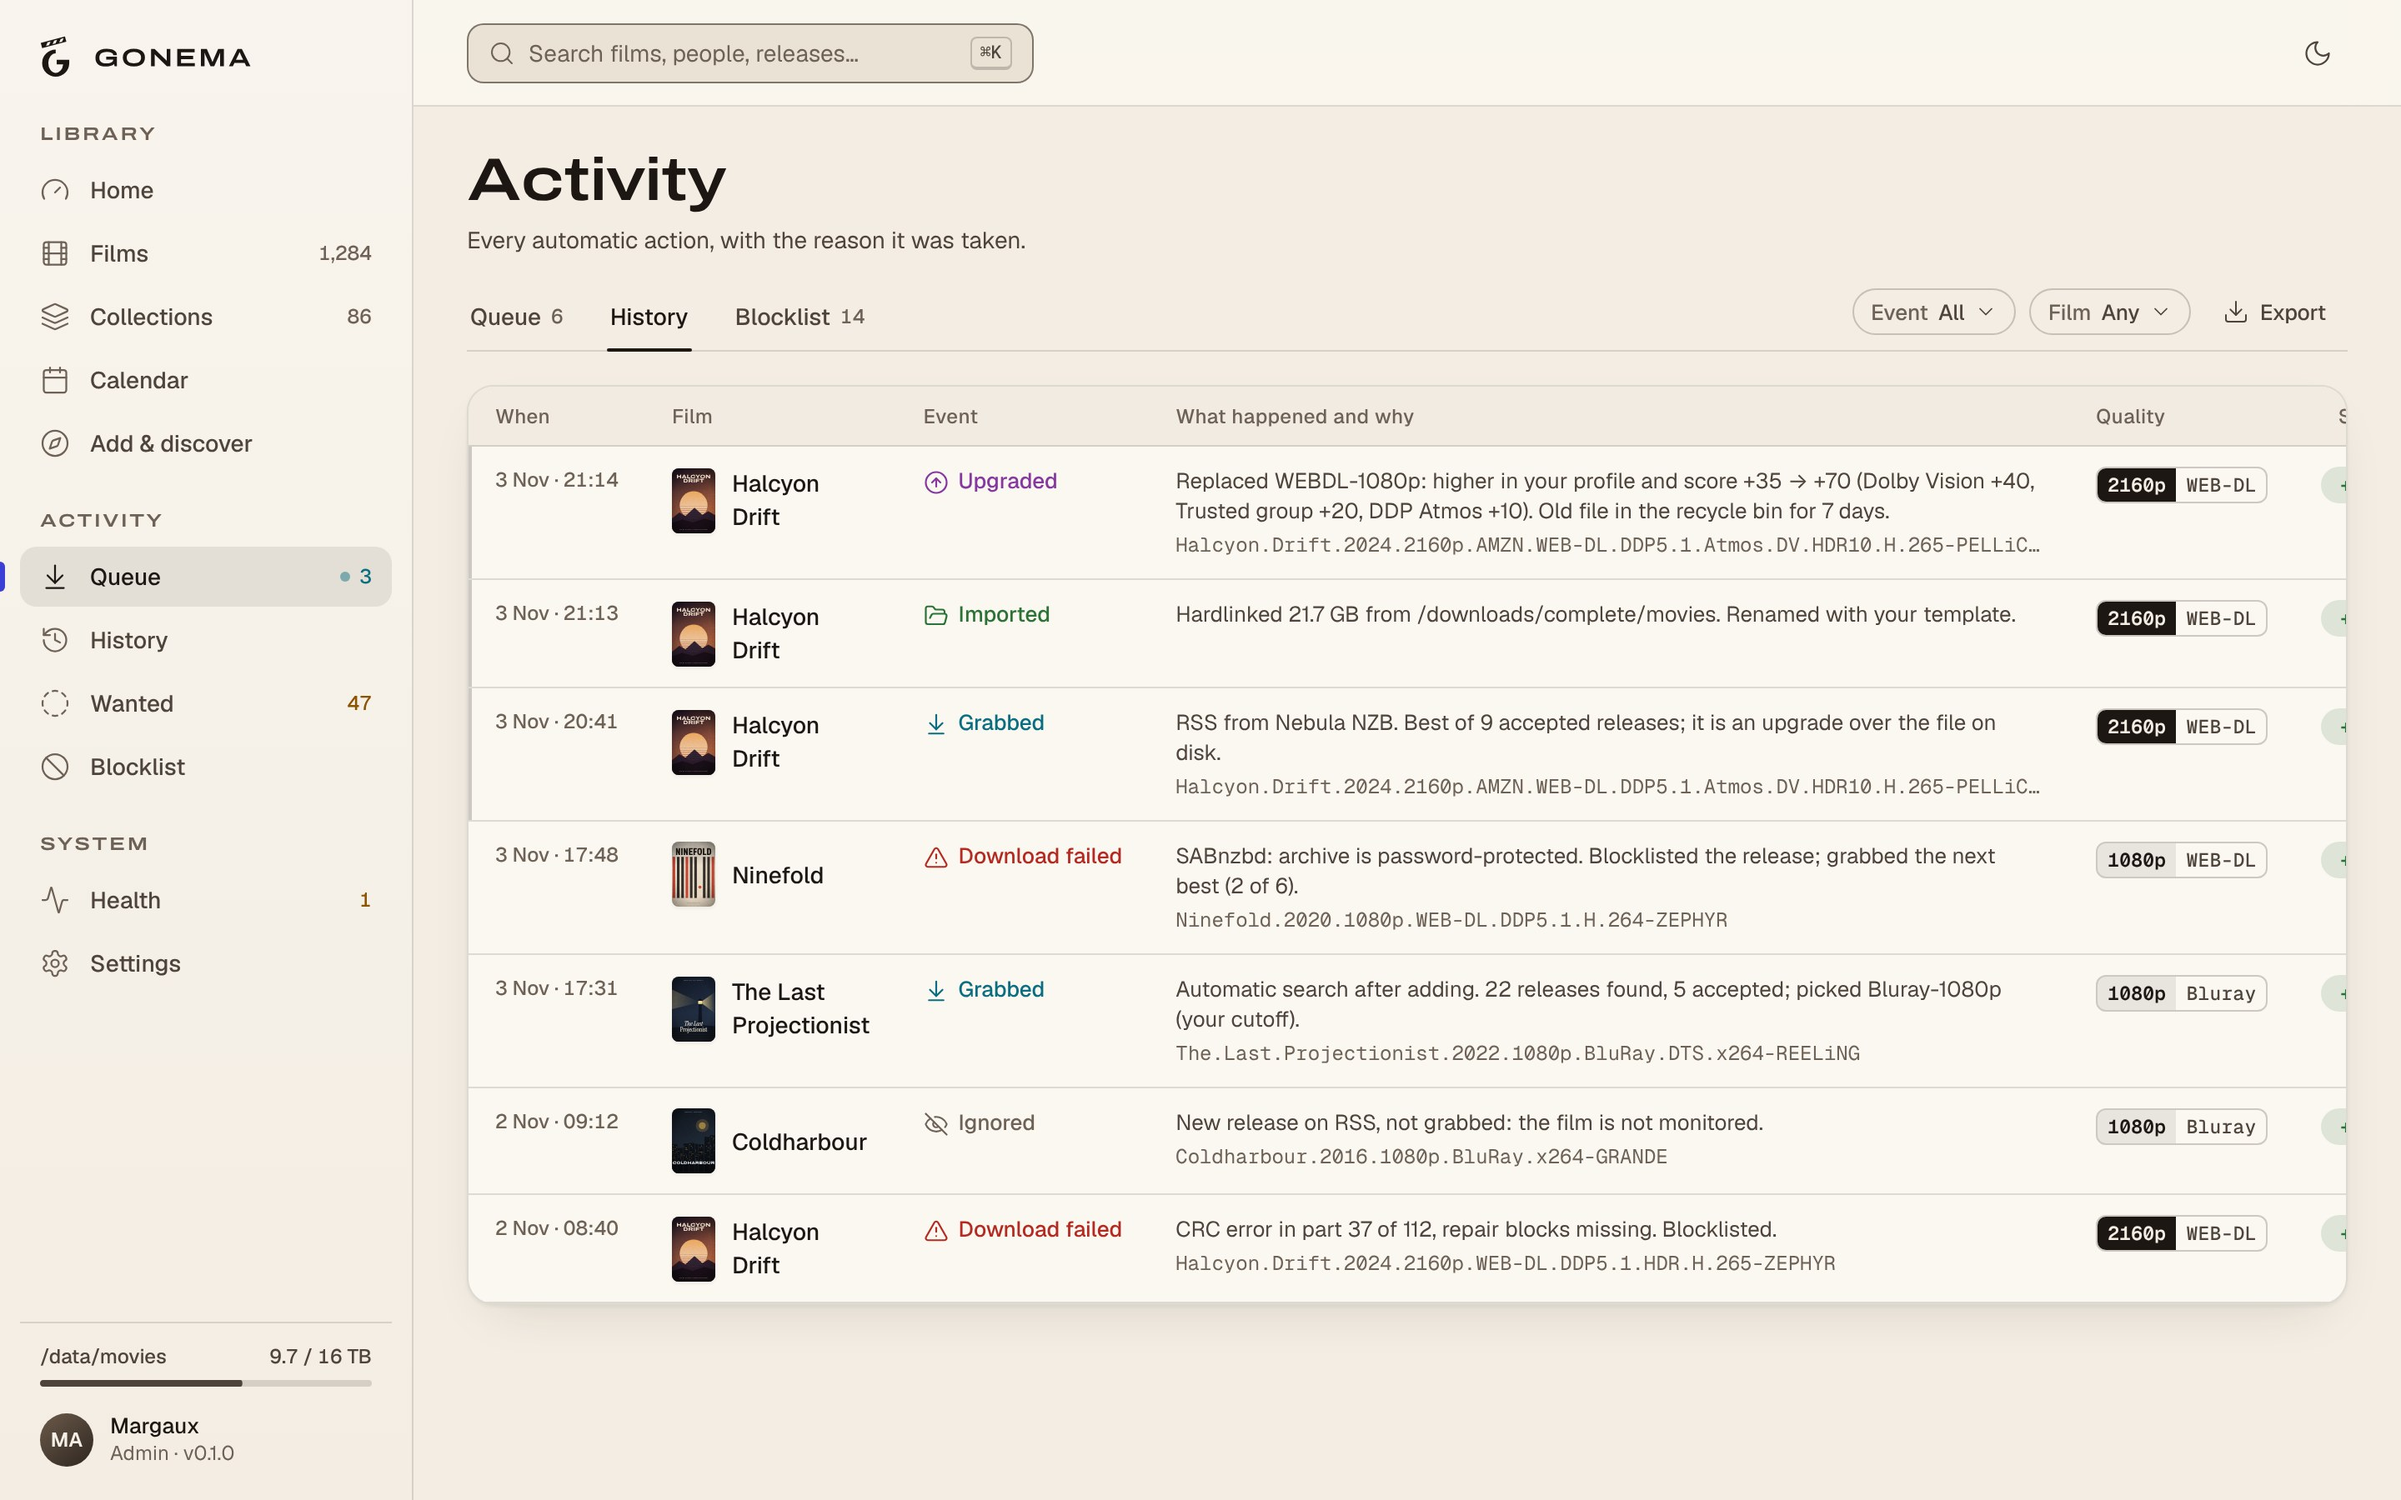
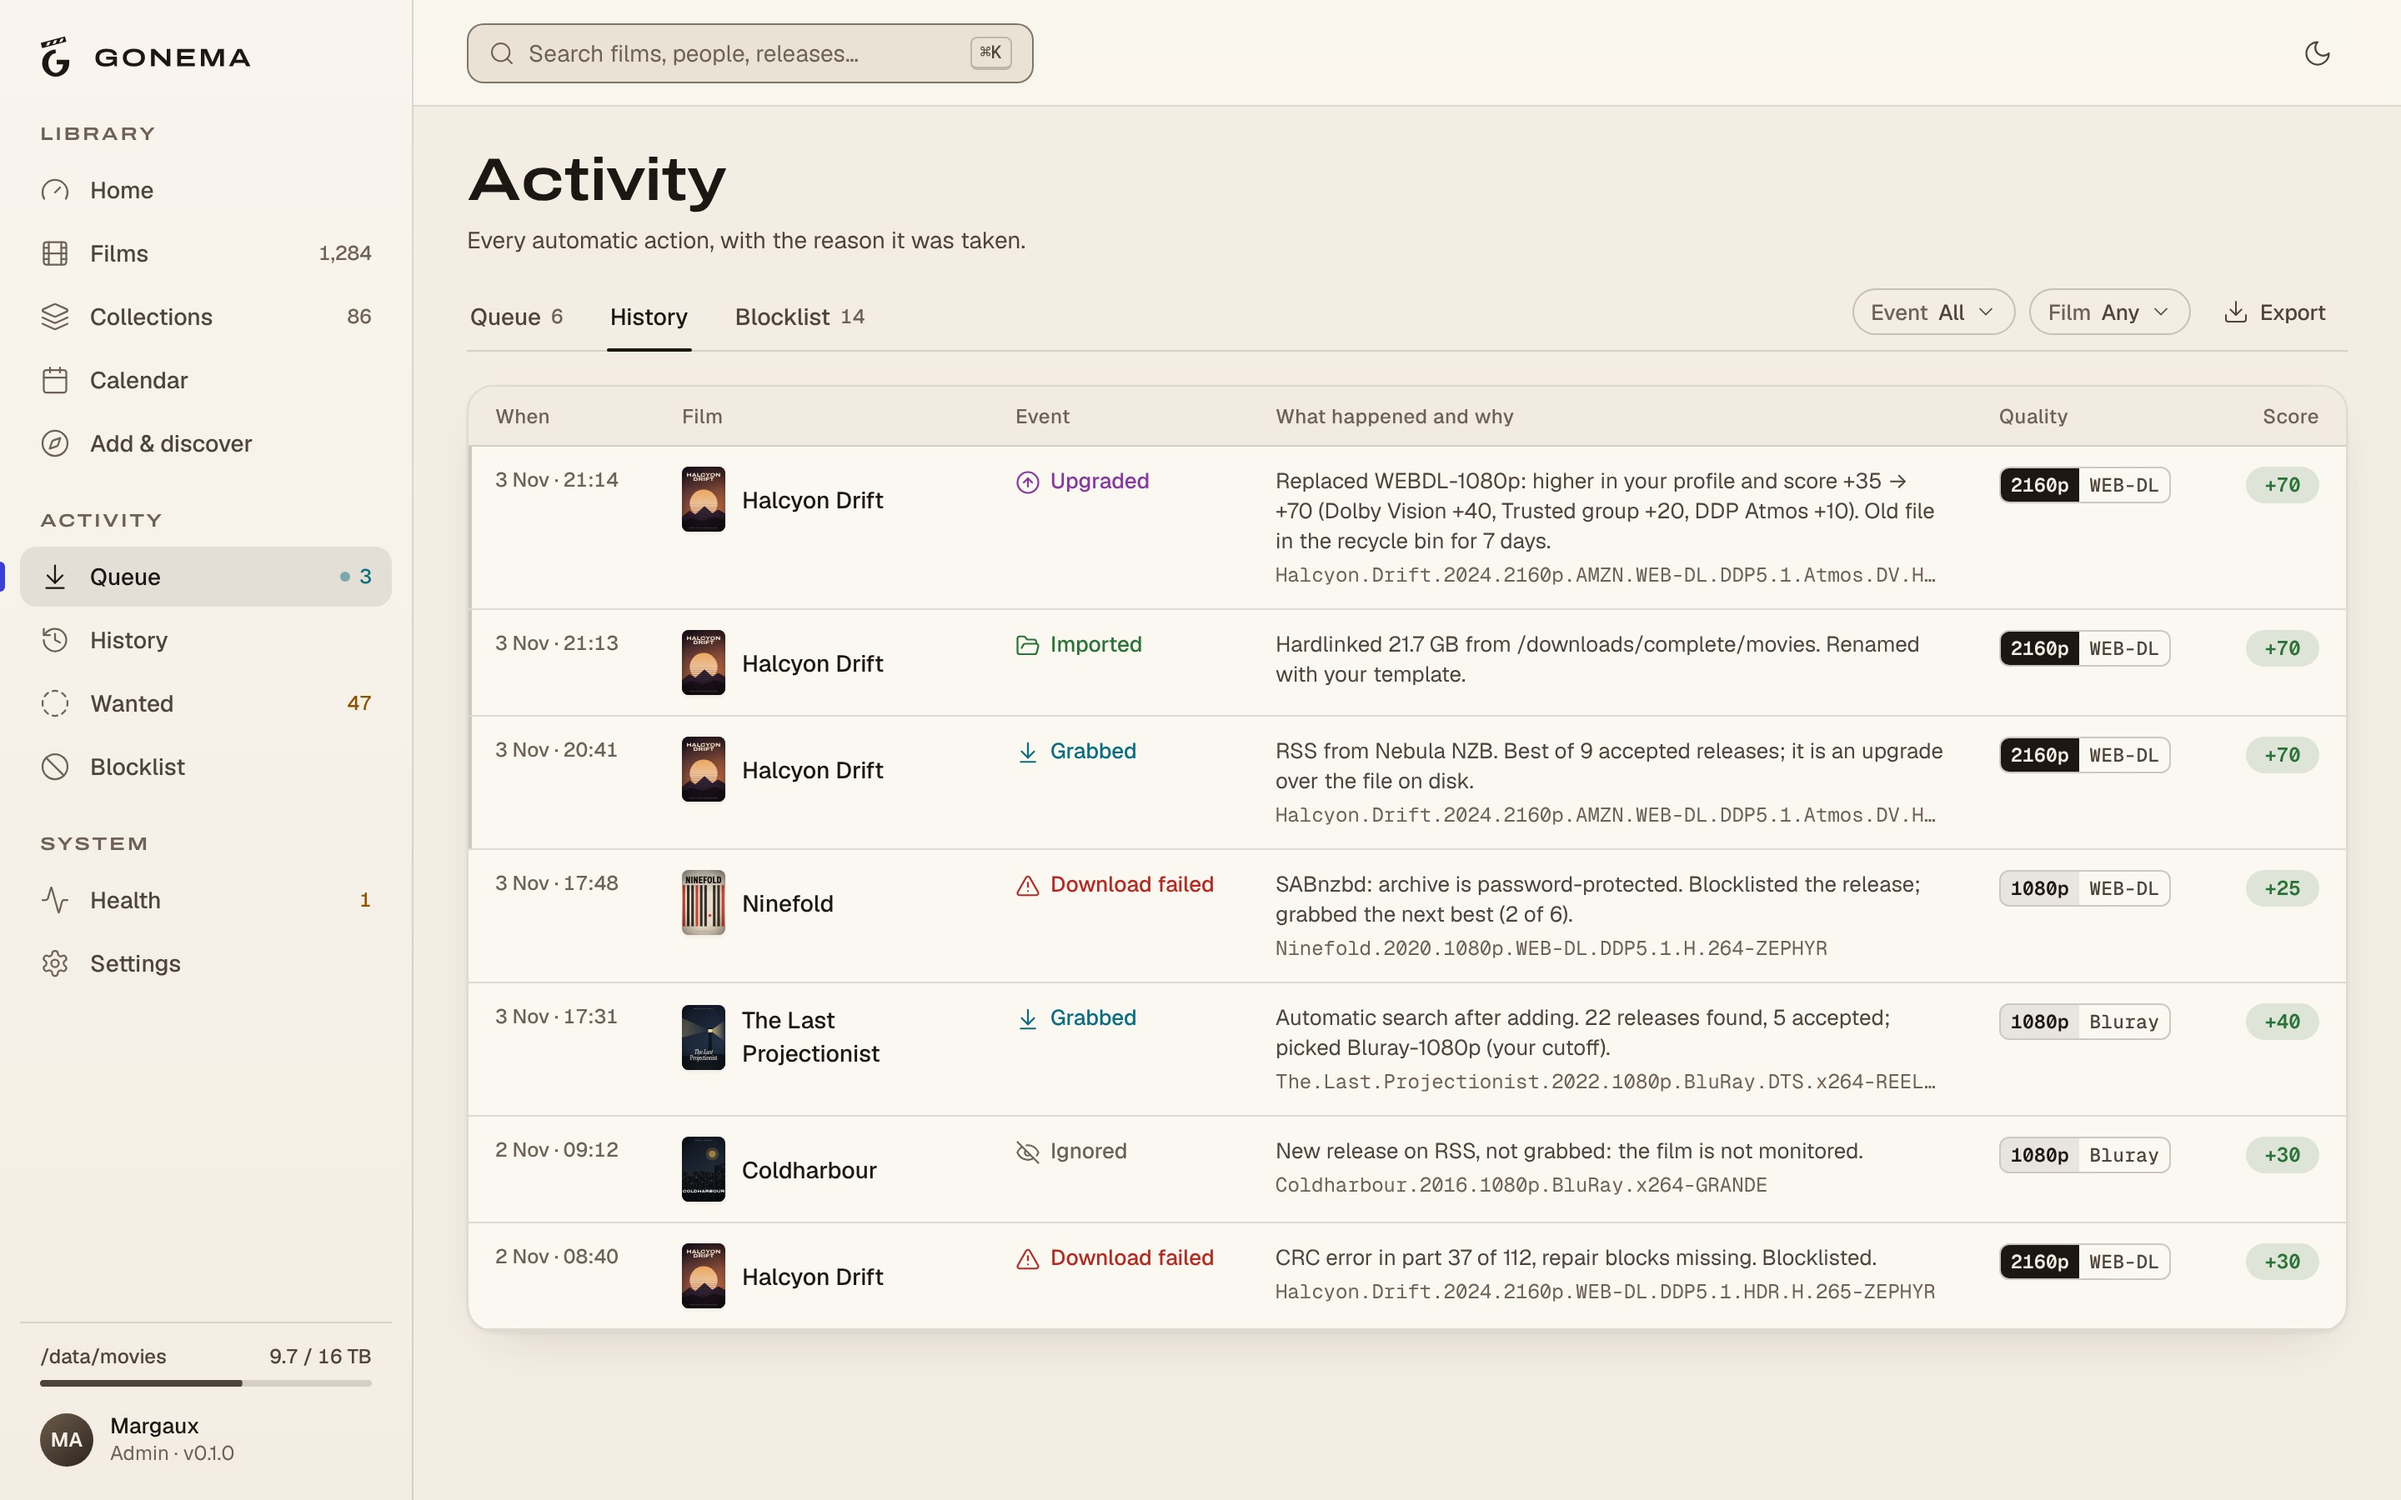
fix(design): rule editor chip overflow and history score column
Claude-Session: https://claude.ai/code/session_01NEYy5QEBfQgbcFuENik1FZ

diff --git a/docs/design/mockups/queue.html b/docs/design/mockups/queue.html
@@ -41,12 +41,13 @@
 
   /* History */
   .hist { border: 1px solid var(--border); border-radius: var(--radius-lg); background: var(--bg-raised); box-shadow: var(--elev-2); overflow: hidden; }
+  .hist .tbl { table-layout: fixed; }
   .hist .tbl td { vertical-align: top; padding-top: 12px; padding-bottom: 12px; height: auto; white-space: normal; }
   .hist .tbl thead th { background: color-mix(in srgb, var(--bg-sunken) 60%, var(--bg-raised)); }
   .hist .film { display: flex; gap: 10px; align-items: center; font-weight: 500; }
   .hist .film .thumb { width: 26px; aspect-ratio: 2/3; border-radius: 4px; overflow: hidden; flex: none; } .hist .film .poster-art svg { width: 100%; height: 100%; }
   .hist .reason { font: var(--type-body-sm); color: var(--text-secondary); }
-  .hist .reason .rel { display: block; font: var(--type-mono-sm); color: var(--text-muted); margin-top: 3px; overflow: hidden; text-overflow: ellipsis; white-space: nowrap; max-width: 520px; }
+  .hist .reason .rel { display: block; font: var(--type-mono-sm); color: var(--text-muted); margin-top: 3px; overflow: hidden; text-overflow: ellipsis; white-space: nowrap; max-width: 100%; }
   .hist tr.chain td:first-child { box-shadow: inset 2px 0 0 var(--border-strong); }
   .hist .tbl td.when { color: var(--text-muted); font: var(--type-caption); font-variant-numeric: tabular-nums; white-space: nowrap; }
   [data-tab="history"] .only-queue, [data-tab="queue"] .only-history { display: none !important; }
@@ -83,7 +84,7 @@
 
       <div class="only-history hist">
         <table class="tbl" aria-label="History">
-          <colgroup><col style="width:120px"><col style="width:220px"><col style="width:150px"><col><col style="width:150px"><col style="width:80px"></colgroup>
+          <colgroup><col style="width:112px"><col style="width:200px"><col style="width:156px"><col><col style="width:148px"><col style="width:76px"></colgroup>
           <thead><tr><th>When</th><th>Film</th><th>Event</th><th>What happened and why</th><th>Quality</th><th class="r">Score</th></tr></thead>
           <tbody id="h"></tbody>
         </table>

diff --git a/docs/design/mockups/settings-quality.html b/docs/design/mockups/settings-quality.html
@@ -60,14 +60,24 @@
   .rules > li.open { display: block; padding: 0; margin: 6px 0; }
   .editor { border: 1px solid color-mix(in srgb, var(--accent) 45%, transparent); border-radius: var(--radius-lg); background: var(--bg-sunken); padding: var(--space-4); display: grid; gap: var(--space-3); }
   .editor .eh { display: flex; align-items: center; gap: var(--space-3); }
-  .cond { display: grid; grid-template-columns: 140px minmax(0, 1fr) 28px; gap: 8px; align-items: center; }
+  .cond { display: grid; grid-template-columns: 156px minmax(0, 1fr) 28px; gap: 8px; align-items: start; }
+  .cond > .icon-btn { margin-top: 2px; }
   .cond .flags { grid-column: 2; display: flex; gap: 16px; }
   .idx .panel-hd h2 { white-space: nowrap; }
   .cond .input { height: 32px; background: var(--bg-raised); }
   .cond .switch { font: 500 12px/1 var(--font-ui); color: var(--text-secondary); gap: 6px; }
   .cond .switch .track { width: 30px; height: 18px; } .cond .switch .track::after { width: 12px; height: 12px; }
   .cond .switch[aria-checked="true"] .track::after { transform: translateX(12px); }
-  .valchips { display: flex; gap: 4px; flex-wrap: wrap; align-items: center; }
+  .cond .valchips { height: auto; min-height: 32px; padding: 4px 6px; display: flex; gap: 4px; flex-wrap: wrap; align-items: center; align-content: center; }
+  .cond .select { font-size: 13px; padding: 0 8px 0 10px; }
+  .cond .select .value { overflow: visible; }
+  @media (max-width: 1100px) {
+    .set { grid-template-columns: minmax(0, 1fr); }
+    .snav { display: none; }
+    .qgrid { grid-template-columns: minmax(0, 1fr); }
+    .idx { grid-template-columns: repeat(2, minmax(0, 1fr)); }
+    .topbar .search { display: none; }
+  }
   .per-profile { display: grid; grid-template-columns: repeat(3, 1fr); gap: 8px; }
   .per-profile .field-label { font-size: 12px; }
 
